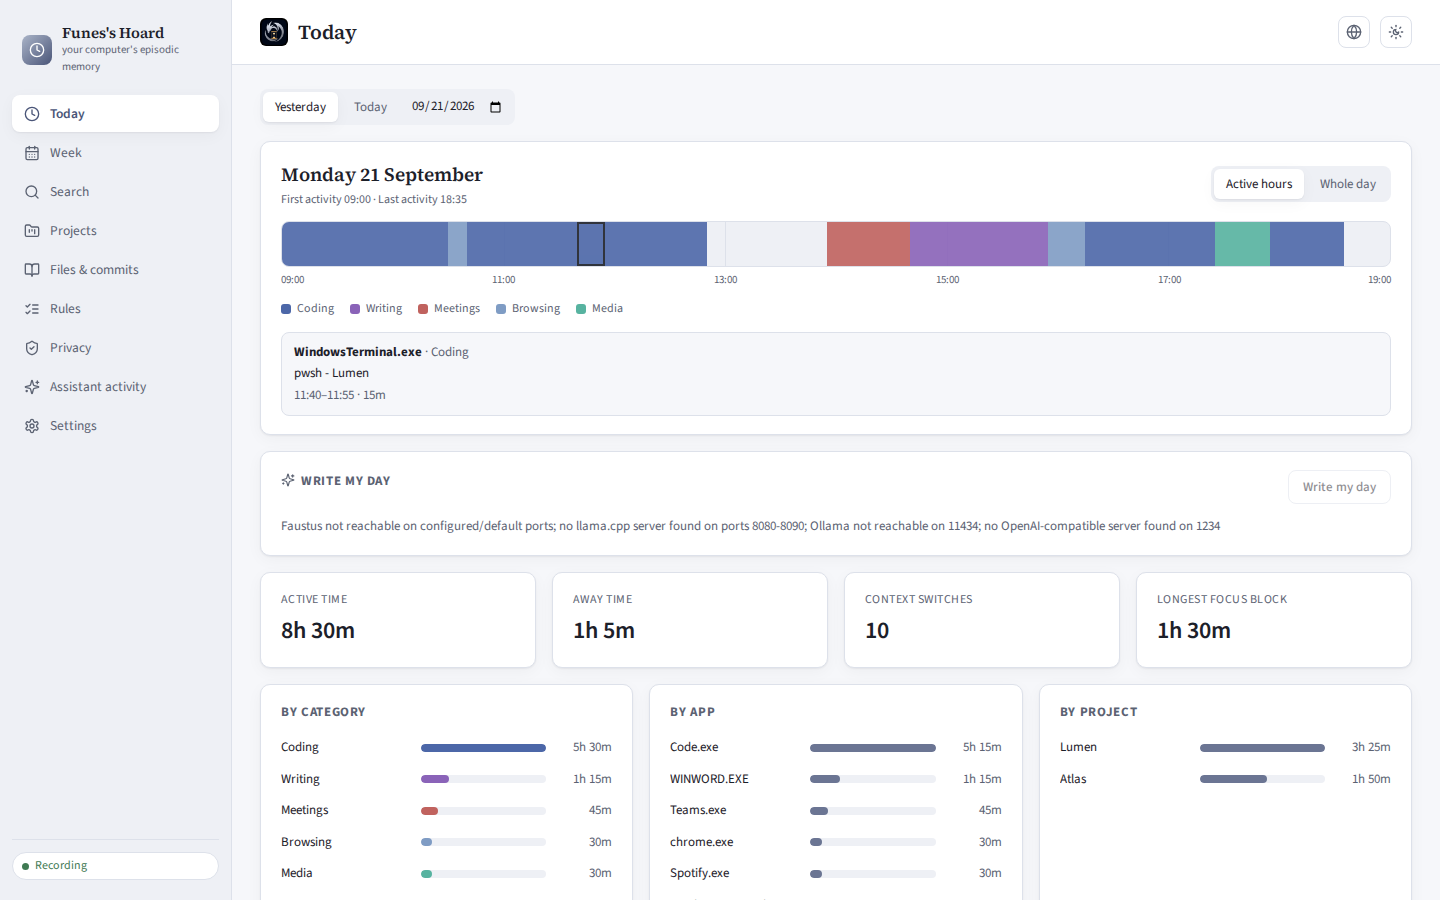
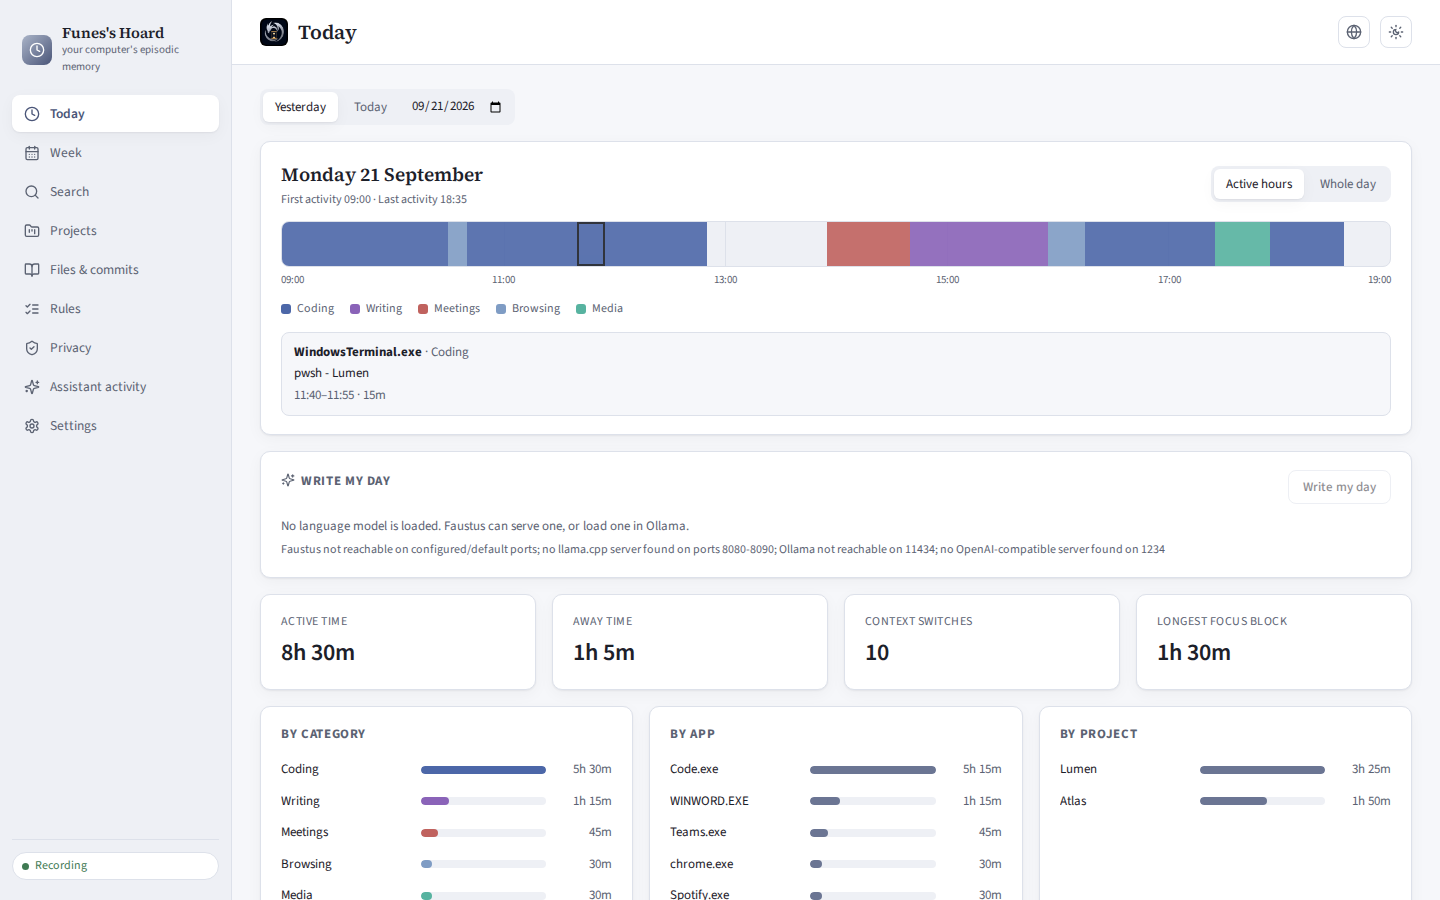
fix(ui): let Settings clear overrides and say plainly when no model is loaded
Emptying the Faustus URL or a language-model override and saving left
the old value in backend.json, because blank fields were simply not
sent; they are now sent as empty strings, which the backend already
treats as "remove". A stored token can be removed with its own button
(a blank token field still means "keep the stored one").

With no model the Settings row and the Today card only showed the raw
probe list; both now lead with a plain sentence in the UI language
("No language model is loaded..." and where one can come from) and
keep the probe list underneath as detail. The Write my day
button is also disabled, with the reason as its tooltip, on a day with
nothing recorded.

The override form stacks each label over its input and styles the
token field like the others. Screenshots of both screens retaken.

Claude-Session: https://claude.ai/code/session_019KVoFTp2agjwLaonbFXam5

diff --git a/frontend/src/components/SettingsView.tsx b/frontend/src/components/SettingsView.tsx
@@ -1,6 +1,6 @@
 import { useEffect, useState } from "react";
 import { Brain, RefreshCw } from "lucide-react";
-import { api, errorMessage, type BackendStatus } from "../api";
+import { api, errorMessage, type BackendConfigPatch, type BackendStatus } from "../api";
 import { STRINGS, type Lang } from "../i18n";
 import { Badge } from "./Common";
 
@@ -53,15 +53,27 @@ export function SettingsView({ lang }: { lang: Lang }) {
     setSaveError(null);
     setSaveMsg(null);
     try {
-      const patch: Parameters<typeof api.saveBackendConfig>[0] = {};
-      if (faustusUrl.trim()) patch.faustus_url = faustusUrl.trim();
+      // A blank field is sent as "" so emptying it removes a saved override;
+      // the token is the exception -- blank means "keep the stored one".
+      const patch: BackendConfigPatch = {
+        faustus_url: faustusUrl.trim(),
+        capabilities: { llm: { url: llmUrl.trim(), model: llmModel.trim() } },
+      };
       if (faustusToken.trim()) patch.faustus_token = faustusToken.trim();
-      if (llmUrl.trim() || llmModel.trim()) {
-        patch.capabilities = { llm: { url: llmUrl.trim() || undefined, model: llmModel.trim() || undefined } };
-      }
       const res = await api.saveBackendConfig(patch);
       setFaustusToken("");
       setSaveMsg(res.faustus_token_set ? t.settings_saved_with_token : t.settings_saved);
+      refresh();
+    } catch (err) {
+      setSaveError(errorMessage(err));
+    }
+  }
+
+  async function clearToken() {
+    setSaveError(null);
+    try {
+      await api.saveBackendConfig({ faustus_token: "" });
+      setSaveMsg(t.settings_saved);
       refresh();
     } catch (err) {
       setSaveError(errorMessage(err));
@@ -107,6 +119,7 @@ export function SettingsView({ lang }: { lang: Lang }) {
               </tr>
               <tr>
                 <td colSpan={5} className="muted" style={{ fontSize: 12, paddingTop: 4 }}>
+                  {llm.state !== "resolved" && <div style={{ fontSize: 13, marginBottom: 2 }}>{t.no_llm}</div>}
                   {llm.reason}
                 </td>
               </tr>
@@ -118,7 +131,7 @@ export function SettingsView({ lang }: { lang: Lang }) {
       <div className="card" style={{ marginTop: 16 }}>
         <div className="section-title">{t.model_overrides}</div>
         <p className="muted" style={{ fontSize: 12, marginTop: 0 }}>{t.model_overrides_hint}</p>
-        <div className="grid grid-2">
+        <div className="grid grid-2 form-grid">
           <label>
             {t.faustus_url}
             <input type="text" placeholder="http://127.0.0.1:7000" value={faustusUrl} onChange={(e) => setFaustusUrl(e.target.value)} />
@@ -145,6 +158,11 @@ export function SettingsView({ lang }: { lang: Lang }) {
           <button className="btn btn-primary" onClick={saveConfig}>
             {t.save}
           </button>
+          {status?.faustus_token_set && (
+            <button className="btn btn-ghost" onClick={clearToken}>
+              {t.clear_token}
+            </button>
+          )}
         </div>
         {saveMsg && <p className="muted" style={{ fontSize: 12, marginTop: 8 }}>{saveMsg}</p>}
         {saveError && <p className="form-error">{saveError}</p>}

diff --git a/frontend/src/components/TodayView.tsx b/frontend/src/components/TodayView.tsx
@@ -173,7 +173,7 @@ export function TodayView({ lang }: { lang: Lang }) {
         </div>
       </div>
 
-      <WriteMyDayCard day={day} lang={lang} />
+      <WriteMyDayCard day={day} lang={lang} hasActivity={summary.active_s > 0} />
 
       <div className="grid grid-4" style={{ marginTop: 16 }}>
         <div className="card">
@@ -235,7 +235,7 @@ export function TodayView({ lang }: { lang: Lang }) {
   );
 }
 
-function WriteMyDayCard({ day, lang }: { day: string; lang: Lang }) {
+function WriteMyDayCard({ day, lang, hasActivity }: { day: string; lang: Lang; hasActivity: boolean }) {
   const t = STRINGS[lang];
   const [narrative, setNarrative] = useState<DayNarrative | null>(null);
   const [busy, setBusy] = useState(false);
@@ -267,6 +267,8 @@ function WriteMyDayCard({ day, lang }: { day: string; lang: Lang }) {
   }
 
   if (!narrative || !narrative.enabled) return null;
+  // Why the button is off, in the words shown under it and as its tooltip.
+  const blocker = !narrative.available ? t.no_llm : !hasActivity ? t.no_activity_to_write : null;
 
   return (
     <div className="card" style={{ marginTop: 16 }}>
@@ -277,8 +279,8 @@ function WriteMyDayCard({ day, lang }: { day: string; lang: Lang }) {
         </div>
         <button
           className="btn"
-          disabled={busy || !narrative.available}
-          title={!narrative.available ? narrative.reason || undefined : undefined}
+          disabled={busy || blocker !== null}
+          title={blocker ?? undefined}
           onClick={() => write(Boolean(narrative.text))}
         >
           {busy ? t.working : narrative.text ? t.regenerate : t.write_my_day_button}
@@ -292,9 +294,12 @@ function WriteMyDayCard({ day, lang }: { day: string; lang: Lang }) {
           </p>
         </>
       ) : (
-        <p className="muted" style={{ fontSize: 13, marginBottom: 0 }}>
-          {narrative.available ? t.write_my_day_hint : narrative.reason}
-        </p>
+        <>
+          <p className="muted" style={{ fontSize: 13, marginBottom: 0 }}>{blocker ?? t.write_my_day_hint}</p>
+          {!narrative.available && narrative.reason && (
+            <p className="muted" style={{ fontSize: 12, margin: "4px 0 0" }}>{narrative.reason}</p>
+          )}
+        </>
       )}
       {error && <p className="form-error">{error}</p>}
     </div>

diff --git a/frontend/src/i18n.ts b/frontend/src/i18n.ts
@@ -129,6 +129,9 @@ export const STRINGS = {
     write_my_day_button: "Write my day",
     regenerate: "Regenerate",
     written_with: "Written with",
+    no_llm: "No language model is loaded. Faustus can serve one, or load one in Ollama.",
+    no_activity_to_write: "Nothing was recorded on this day, so there is nothing to write about.",
+    clear_token: "Remove token",
   },
   es: {
     appName: "Funes's Hoard",
@@ -258,6 +261,9 @@ export const STRINGS = {
     write_my_day_button: "Escribe mi día",
     regenerate: "Regenerar",
     written_with: "Escrito con",
+    no_llm: "No hay ningún modelo de lenguaje cargado. Faustus puede servir uno, o puedes cargarlo en Ollama.",
+    no_activity_to_write: "No hay nada registrado este día, así que no hay nada que contar.",
+    clear_token: "Quitar token",
   },
 } as const;
 

diff --git a/frontend/src/app.css b/frontend/src/app.css
@@ -457,6 +457,7 @@ tr:last-child td {
 }
 
 input[type="text"],
+input[type="password"],
 input[type="number"],
 input[type="datetime-local"],
 select {
@@ -645,4 +646,11 @@ select {
   to {
     transform: rotate(360deg);
   }
+}
+
+.form-grid label {
+  display: flex;
+  flex-direction: column;
+  gap: 4px;
+  font-size: 13px;
 }
